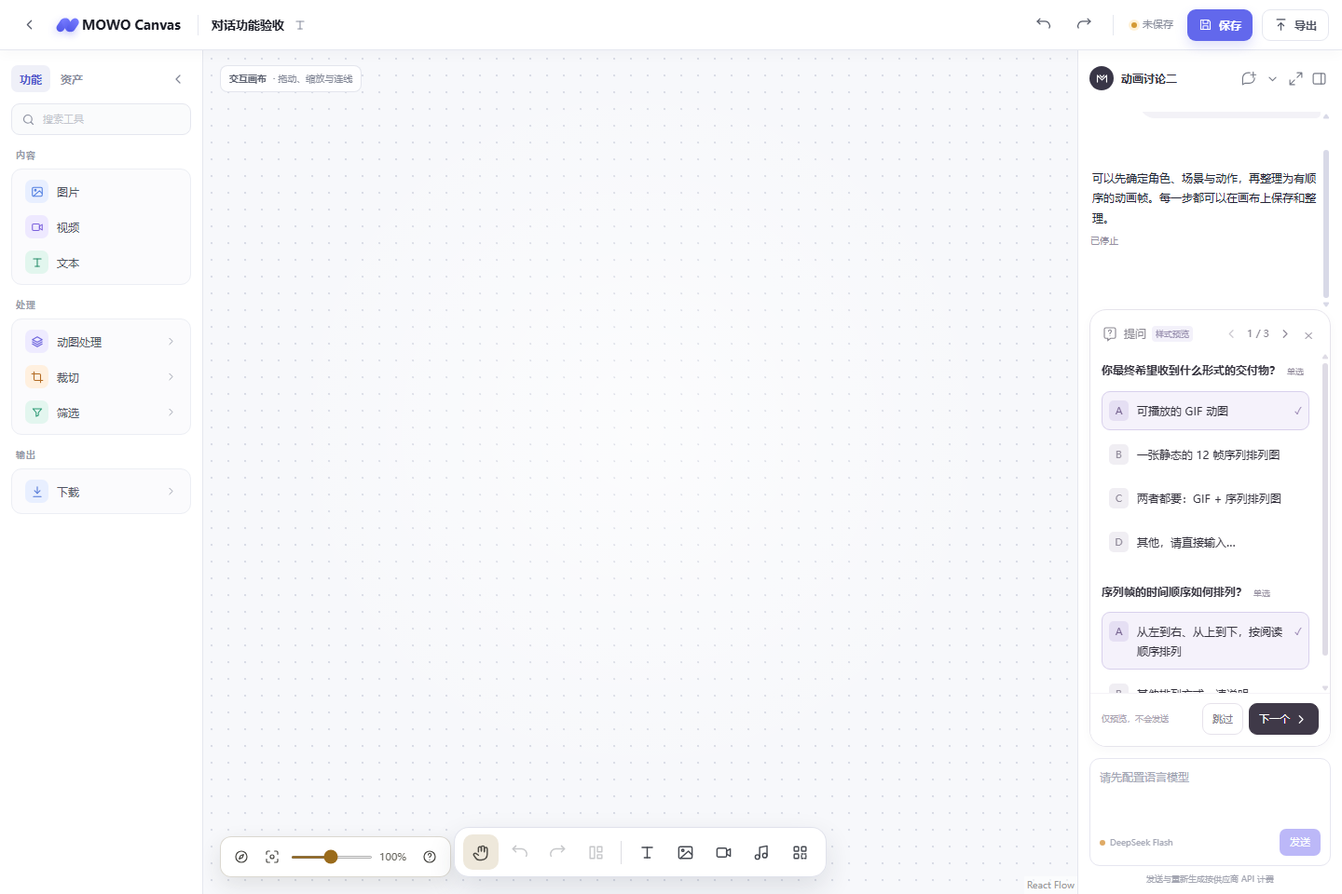
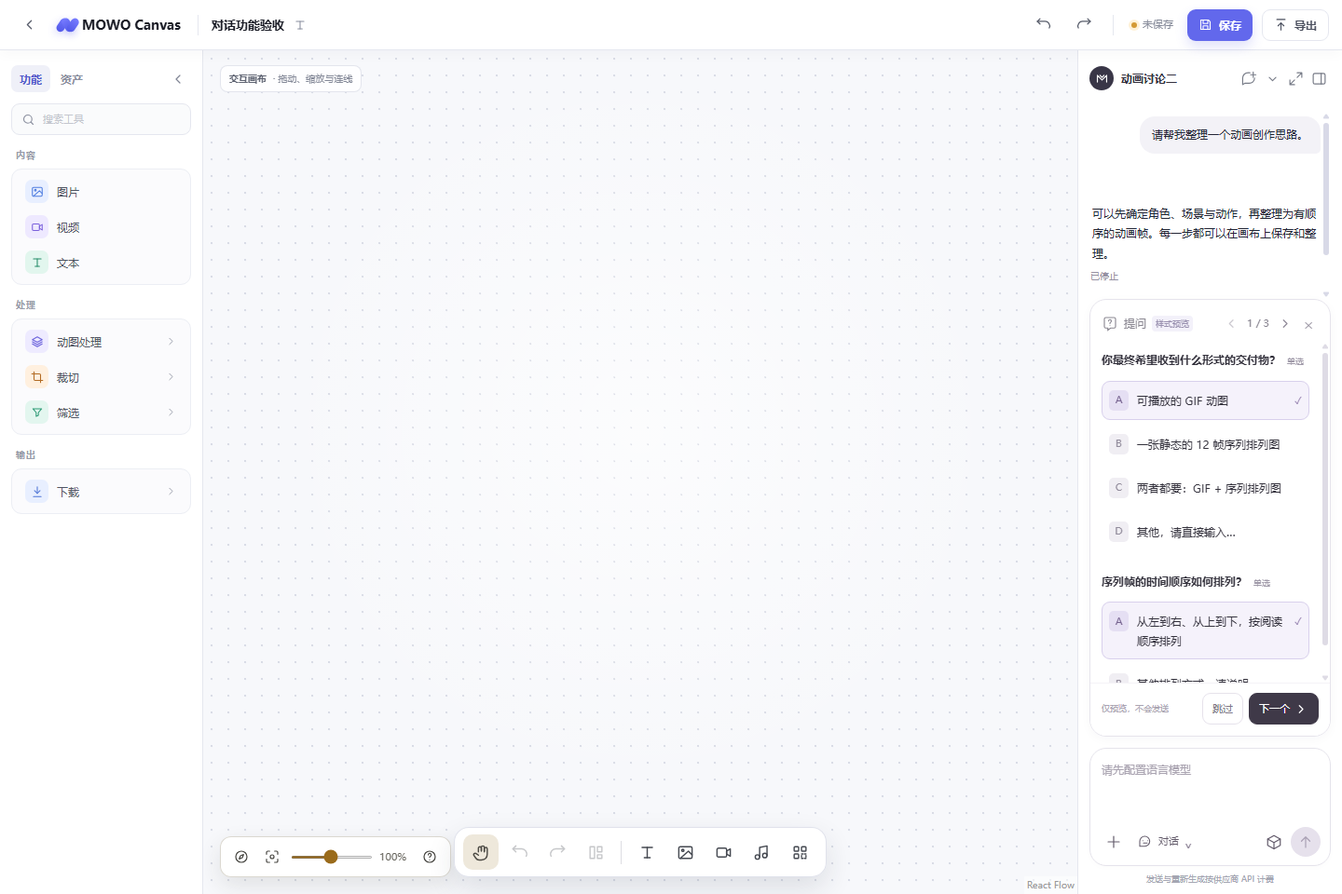
feat: refine chat composer toolbar and local file preview

diff --git a/src/features/ai/chat-composer.tsx b/src/features/ai/chat-composer.tsx
@@ -1,0 +1,84 @@
+"use client";
+
+import { useEffect, useRef, useState } from "react";
+import styles from "./chat-composer.module.css";
+
+function ComposerIcon({ name }: { name: "plus" | "file" | "mode" | "cube" | "send" | "stop" | "image" | "video" }) {
+  const paths = {
+    plus: <path d="M12 4v16M4 12h16" />,
+    file: <><path d="m8 12 6-6a3 3 0 0 1 4 4l-8 8a5 5 0 0 1-7-7l8-8" /></>,
+    mode: <><path d="M5 19H3v-8a8 8 0 1 1 8 8H5Z" /><path d="M8 10h.01M16 10h.01M9 14h6" /></>,
+    cube: <><path d="m12 3 9 5v9l-9 5-9-5V8Z" /><path d="m3 8 9 5 9-5M12 13v9" /></>,
+    send: <path d="M12 20V5m-6 6 6-6 6 6" />,
+    stop: <rect x="6" y="6" width="12" height="12" rx="2" fill="currentColor" stroke="none" />,
+    image: <><rect x="3" y="4" width="18" height="16" rx="3" /><circle cx="8" cy="9" r="1" /><path d="m4 18 6-6 4 4 3-3 4 4" /></>,
+    video: <><rect x="3" y="6" width="13" height="12" rx="3" /><path d="m16 10 5-3v10l-5-3Z" /></>,
+  };
+  return <svg viewBox="0 0 24 24" width="18" height="18" fill="none" stroke="currentColor" strokeWidth="1.6" strokeLinecap="round" strokeLinejoin="round" aria-hidden="true">{paths[name]}</svg>;
+}
+const fileKey = (file: File) => `${file.name}:${file.size}:${file.lastModified}`;
+const fileSize = (size: number) => size < 1024 * 1024 ? `${Math.max(1, Math.round(size / 1024))} KB` : `${(size / (1024 * 1024)).toFixed(1)} MB`;
+
+export function ChatComposer({ value, onChange, onSend, disabled, configured, running, stopping, submitting, onStop, onSettings }: {
+  value: string; onChange: (value: string) => void; onSend: () => void; disabled: boolean; configured: boolean;
+  running: boolean; stopping: boolean; submitting: boolean; onStop: () => void; onSettings: () => void;
+}) {
+  const [menu, setMenu] = useState<"tools" | "mode" | "model" | null>(null);
+  const [files, setFiles] = useState<File[]>([]);
+  const root = useRef<HTMLFormElement>(null);
+  const picker = useRef<HTMLInputElement>(null);
+  const canSend = !running && !submitting && !disabled && !files.length && Boolean(value.trim());
+  useEffect(() => {
+    if (!menu) return;
+    const close = (event: PointerEvent) => { if (!root.current?.contains(event.target as Node)) setMenu(null); };
+    document.addEventListener("pointerdown", close);
+    return () => document.removeEventListener("pointerdown", close);
+  }, [menu]);
+  const toggle = (target: typeof menu) => setMenu((current) => current === target ? null : target);
+  return <form className={styles.composer} ref={root} aria-label="对话输入区" onSubmit={(event) => { event.preventDefault(); if (canSend) onSend(); }}
+    onKeyDown={(event) => { if (event.key === "Escape") setMenu(null); }}>
+    <input ref={picker} type="file" aria-label="选择上传文件" hidden multiple onChange={(event) => {
+      const chosen = Array.from(event.target.files ?? []);
+      setFiles((current) => {
+        const keys = new Set(current.map(fileKey));
+        return [...current, ...chosen.filter((file) => { const key = fileKey(file); if (keys.has(key)) return false; keys.add(key); return true; })];
+      });
+      event.target.value = "";
+    }} />
+    {files.length > 0 && <div className={styles.attachments} aria-label="本地文件预览">{files.map((file) => <div className={styles.attachment} key={fileKey(file)}>
+      <ComposerIcon name="file" /><span title={file.name}>{file.name}<small>{fileSize(file.size)} · 本地预览</small></span>
+      <button aria-label={`移除文件 ${file.name}`} title="移除文件" type="button" onClick={() => setFiles((current) => current.filter((item) => fileKey(item) !== fileKey(file)))}>×</button>
+    </div>)}</div>}
+    {files.length > 0 && <p className={styles.fileNotice} role="status">文件暂不随消息发送，移除后可继续文字对话。</p>}
+    <textarea aria-label="输入消息" placeholder={configured ? "描述你的想法…" : "请先配置语言模型"} rows={3} maxLength={8000} value={value} onChange={(event) => onChange(event.target.value)} onKeyDown={(event) => {
+      if (event.key === "Enter" && !event.shiftKey && !event.nativeEvent.isComposing && event.keyCode !== 229) { event.preventDefault(); if (canSend) onSend(); }
+    }} />
+    <div className={styles.toolbar}>
+      <div className={styles.left}>
+        <button className={`${styles.iconButton} ${menu === "tools" ? styles.active : ""}`} type="button" aria-label="添加功能" title="添加" aria-expanded={menu === "tools"} onClick={() => toggle("tools")}><ComposerIcon name="plus" /></button>
+        <button className={`${styles.modeButton} ${menu === "mode" ? styles.active : ""}`} type="button" aria-label="选择模式" title="选择模式" aria-expanded={menu === "mode"} onClick={() => toggle("mode")}><ComposerIcon name="mode" /><span>对话</span><span className={styles.chevron}>⌄</span></button>
+      </div>
+      <div className={styles.right}>
+        <button className={`${styles.iconButton} ${menu === "model" ? styles.active : ""}`} type="button" aria-label="模型偏好" title="模型偏好" aria-expanded={menu === "model"} onClick={() => toggle("model")}><ComposerIcon name="cube" /></button>
+        {running ? <button className={styles.send} type="button" aria-label="停止生成" title={stopping ? "停止中…" : "停止生成"} disabled={stopping} onClick={onStop}><ComposerIcon name="stop" /></button>
+          : <button className={styles.send} type="submit" aria-label="发送消息" title={submitting ? "发送中…" : files.length ? "文件仅作本地预览，请先移除" : "发送消息（Enter）"} disabled={!canSend}><ComposerIcon name="send" /></button>}
+      </div>
+    </div>
+    {menu === "tools" && <div className={styles.popup} role="menu" aria-label="功能菜单">
+      <button type="button" role="menuitem" onClick={() => { setMenu(null); picker.current?.click(); }}><ComposerIcon name="file" /><span>上传文件<small>本地选择预览，尚未接入发送</small></span></button>
+    </div>}
+    {menu === "mode" && <div className={styles.popup} role="menu" aria-label="模式菜单">
+      <button type="button" role="menuitemradio" aria-checked="true" onClick={() => setMenu(null)}><ComposerIcon name="mode" /><span>对话<small>文字交流与需求讨论</small></span><span className={styles.check}>✓</span></button>
+      <div className={styles.divider} />
+      <button type="button" role="menuitemradio" aria-checked="false" disabled><ComposerIcon name="image" /><span>图像</span><small>未接入</small></button>
+      <button type="button" role="menuitemradio" aria-checked="false" disabled><ComposerIcon name="video" /><span>视频</span><small>未接入</small></button>
+    </div>}
+    {menu === "model" && <section className={`${styles.popup} ${styles.models}`} aria-label="模型偏好面板">
+      <header><strong>模型偏好</strong><label title="接入更多模型后开放"><span>自动</span><input type="checkbox" role="switch" aria-label="自动选择模型" disabled /></label></header>
+      <div className={styles.tabs} role="tablist" aria-label="模型类型"><button type="button" role="tab" aria-selected="true">语言</button><button type="button" role="tab" aria-selected="false" disabled title="图像模型未接入">图像</button><button type="button" role="tab" aria-selected="false" disabled title="视频模型未接入">视频</button></div>
+      <div className={styles.modelRow}><ComposerIcon name="mode" /><div><strong>DeepSeek Flash</strong><small>当前文字对话模型 · {configured ? "已配置" : "未配置"}</small></div><span className={styles.check}>✓</span></div>
+      <p>自动选择与其他模型将在接入后开放。</p>
+      <button className={styles.manage} type="button" onClick={() => { setMenu(null); onSettings(); }}>管理模型配置</button>
+    </section>}
+  </form>;
+}

diff --git a/src/features/ai/chat-composer.module.css b/src/features/ai/chat-composer.module.css
@@ -1,0 +1,49 @@
+.composer { position: relative; flex-shrink: 0; padding: 12px 10px 9px; border: 1px solid #e5e3eb; border-radius: 18px; background: white; box-shadow: 0 2px 6px #30283e04; }
+.composer:focus-within { border-color: #c5bed8; }
+.composer > textarea { display: block; width: 100%; min-width: 0; min-height: 58px; resize: none; padding: 0 2px; border: 0; outline: none; background: transparent; color: #37323f; font: inherit; font-size: 12px; line-height: 1.7; }
+.composer textarea::placeholder { color: #aaa4b1; }
+.toolbar, .left, .right { display: flex; align-items: center; }
+.toolbar { justify-content: space-between; gap: 6px; margin-top: 10px; }
+.left, .right { gap: 3px; }
+.composer button { font: inherit; cursor: pointer; }
+.iconButton, .modeButton { display: inline-flex; justify-content: center; align-items: center; flex-shrink: 0; height: 30px; padding: 5px; border: 0; border-radius: 15px; color: #635b6b; background: transparent; }
+.iconButton { width: 30px; }
+.modeButton { gap: 6px; padding: 5px 8px; font-size: 11px !important; }
+.modeButton svg { width: 16px; height: 16px; }
+.chevron { margin-top: -3px; color: #8c8295; font-size: 15px; }
+.iconButton:hover, .modeButton:hover, .active { background: #f1eef5; }
+.send { display: grid; place-items: center; flex-shrink: 0; width: 32px; height: 32px; padding: 0; border: 0; border-radius: 50%; color: white; background: #3c3545; }
+.send:hover:not(:disabled) { background: #5a496a; }
+.send:disabled { background: #e6e1ec; color: #aaa1b4; opacity: 1 !important; cursor: not-allowed; }
+.popup { position: absolute; z-index: 45; bottom: calc(100% + 8px); left: 0; right: 0; overflow: auto; max-height: min(370px, 50vh); padding: 8px; border: 1px solid #e8e4ed; border-radius: 14px; background: #fff; box-shadow: 0 10px 28px #33283e1c; scrollbar-width: thin; }
+.popup > button { display: flex; align-items: center; gap: 10px; width: 100%; padding: 10px 8px; border: 0; border-radius: 8px; color: #4b4255; background: transparent; text-align: left; font-size: 12px; }
+.popup > button:hover:not(:disabled) { background: #f7f4fa; }
+.popup > button > svg { flex-shrink: 0; }
+.popup > button > span { flex: 1; min-width: 0; }
+.popup small { display: block; margin-top: 3px; color: #aaa2b2; font-size: 10px; line-height: 1.6; font-weight: 400; }
+.popup > button:disabled { color: #a8a0b0; opacity: .65; cursor: not-allowed; }
+.popup .check { flex: 0; margin-left: auto; color: #8f7aa4; font-size: 12px; }
+.divider { height: 1px; margin: 6px 7px; background: #eeeaf2; }
+.models { padding: 14px 12px; }
+.models header { display: flex; align-items: center; justify-content: space-between; gap: 10px; margin-bottom: 13px; }
+.models header strong { font-size: 12px; font-weight: 650; color: #51465e; }
+.models header label { display: flex; align-items: center; gap: 6px; color: #aaa0b5; font-size: 10px; }
+.models header input { appearance: none; width: 26px; height: 15px; margin: 0; border-radius: 10px; background: #e9e4ef; }
+.models header input::before { content: ""; display: block; width: 11px; height: 11px; margin: 2px; border-radius: 50%; background: #fff; }
+.tabs { display: flex; gap: 3px; padding: 3px; border-radius: 8px; background: #f5f2f7; }
+.tabs button { flex: 1; min-width: 0; padding: 5px 2px; border: 0; border-radius: 5px; background: transparent; color: #aaa0b4; font-size: 11px; }
+.tabs button[aria-selected="true"] { color: #756084; background: white; box-shadow: 0 1px 4px #3021390a; }
+.modelRow { display: flex; align-items: flex-start; gap: 8px; padding: 18px 3px 9px; }
+.modelRow > svg { flex-shrink: 0; margin-top: 1px; color: #756080; }
+.modelRow > div { flex: 1; min-width: 0; }
+.modelRow strong { color: #5c4b6a; font-size: 12px; font-weight: 550; }
+.models > p { margin: 3px 2px 8px; font-size: 10px; color: #aaa0b5; line-height: 1.7; }
+.models > .manage { justify-content: center; padding: 7px; border-top: 1px solid #f1edf4; border-radius: 0; color: #8e7c9e; font-size: 11px; }
+.attachments { display: grid; gap: 5px; max-height: 100px; margin-bottom: 6px; overflow-y: auto; scrollbar-width: thin; }
+.attachment { display: flex; align-items: center; gap: 6px; min-width: 0; padding: 7px; border-radius: 8px; color: #80708b; background: #f7f4fa; }
+.attachment > svg { flex-shrink: 0; width: 15px; height: 15px; }
+.attachment > span { min-width: 0; flex: 1; overflow: hidden; white-space: nowrap; text-overflow: ellipsis; font-size: 11px; }
+.attachment small { display: block; margin-top: 3px; color: #b0a4bb; font-size: 9px; }
+.attachment button { flex-shrink: 0; padding: 0 2px; border: 0; color: #a393af; background: none; font-size: 16px; }
+.fileNotice { margin: 5px 2px 8px; color: #a08baf; font-size: 10px; line-height: 1.6; }
+.composer button:focus-visible { outline: 2px solid #ad9bc1; outline-offset: 2px; }

diff --git a/src/features/ai/chat-panel.tsx b/src/features/ai/chat-panel.tsx
@@ -1,12 +1,13 @@
 "use client";
 
-import { createContext, useCallback, useContext, useEffect, useRef, useState, useSyncExternalStore, type FormEvent } from "react";
+import { createContext, useCallback, useContext, useEffect, useRef, useState, useSyncExternalStore } from "react";
 import { AssistantRuntimeProvider, MessagePrimitive, ThreadPrimitive, useAuiState, useExternalStoreRuntime, type ThreadMessageLike } from "@assistant-ui/react";
 import { Icon } from "@/app/components/app-icon";
 import { createBrowserSession, runErrorText, type ChatSession, type ChatState } from "./client/chat-session";
 import { isTerminal, type ConversationSummary, type StoredChatMessage } from "./types";
 import { ChatIcon } from "./chat-icons";
 import { ClarificationPreview } from "./clarification-preview";
+import { ChatComposer } from "./chat-composer";
 import styles from "./chat.module.css";
 
 const SessionContext = createContext<{ state: ChatState; session: ChatSession } | null>(null);
@@ -178,8 +179,7 @@ function ConversationPanel({ projectId, onCollapse, expanded, onExpand, conversa
     onNew: async (message) => { await session.send(message.content.filter((part) => part.type === "text").map((part) => part.text).join("\n")); },
     onCancel: () => session.stop(),
   });
-  async function submit(event?: FormEvent) {
-    event?.preventDefault();
+  async function submit() {
     if (disabled || !draft.trim()) return;
     const text = draft;
     if (await session.send(text)) setDraft((current) => current === text ? "" : current);
@@ -221,14 +221,8 @@ function ConversationPanel({ projectId, onCollapse, expanded, onExpand, conversa
       {state.error && <div className={styles.notice} role="alert">{state.error}<button type="button" disabled={state.loading || state.submitting} onClick={() => { void session.refresh(); }}>恢复记录</button></div>}
       {running && <div className={styles.runStatus} role="status">{state.connection === "reconnecting" ? "连接中断，正在核对后台状态…" : state.stopping ? "正在确认停止…" : "正在生成回复…"}</div>}
       {questionPreviewOpen && <ClarificationPreview onClose={() => setQuestionPreviewOpen(false)} />}
-      <form className={styles.composer} onSubmit={(event) => { void submit(event); }}>
-        <textarea aria-label="输入消息" placeholder={state.configuration?.configured ? "输入消息，Enter 发送" : "请先配置语言模型"} rows={3} maxLength={8000} value={draft} onChange={(event) => setDraft(event.target.value)} onKeyDown={(event) => {
-          if (event.key === "Enter" && !event.shiftKey && !event.nativeEvent.isComposing && event.keyCode !== 229) { event.preventDefault(); void submit(); }
-        }} />
-        <div className={styles.composerFooter}><span title={state.configuration?.configured ? "已配置本机密钥" : "未配置本机密钥"}><span className={state.configuration?.configured ? styles.ready : styles.unconfigured} />DeepSeek Flash</span>{running
-          ? <button type="button" className={styles.stop} disabled={state.stopping} onClick={() => { void session.stop(); }}>{state.stopping ? "停止中…" : "停止"}</button>
-          : <button type="submit" disabled={disabled || !draft.trim()}>{state.submitting ? "发送中…" : "发送"}</button>}</div>
-      </form>
+      <ChatComposer value={draft} onChange={setDraft} onSend={() => { void submit(); }} disabled={disabled} configured={Boolean(state.configuration?.configured)}
+        running={running} stopping={state.stopping} submitting={state.submitting} onStop={() => { void session.stop(); }} onSettings={() => setSettingsOpen(true)} />
       <small className={styles.cost}>发送与重新生成按供应商 API 计费</small>
       <dialog ref={dialog} className={styles.settings} aria-labelledby="language-model-title" onCancel={() => setSettingsOpen(false)} onClose={() => setSettingsOpen(false)}>
         <h3 id="language-model-title">语言模型</h3><p>供应商：DeepSeek</p><p>当前模型：deepseek-flash</p><p>本机配置：{state.configuration?.configured ? "已检测到密钥" : "尚未检测到密钥"}</p>

diff --git a/src/features/ai/chat.module.css b/src/features/ai/chat.module.css
@@ -54,15 +54,7 @@
 .notice button { margin-left: 6px; padding: 2px 4px; border: 0; background: transparent; color: #6c61cc; cursor: pointer; font-size: 11px; }
 .pendingText { overflow: hidden; white-space: pre-wrap; max-height: 38px; margin: 3px 0; color: #969080; }
 .runStatus { margin: 0 0 7px; color: #8a849f; font-size: 10px; }
-.composer { flex-shrink: 0; padding: 10px; border: 1px solid #e6e6f0; border-radius: 11px; background: white; }
-.composer:focus-within { border-color: #aba3f8; box-shadow: 0 0 0 2px #f4f2ff; }
-.composer textarea { display: block; width: 100%; min-width: 0; resize: none; border: 0; outline: 0; color: inherit; background: transparent; font: inherit; font-size: 12px; line-height: 1.6; }
-.composer textarea::placeholder { color: #a3a6b4; }
-.composerFooter { display: flex; justify-content: space-between; align-items: center; gap: 4px; margin-top: 7px; }
-.composerFooter > span { font-size: 9px; color: #a4a7b5; }
-.composerFooter > span > span { display: inline-block; margin-right: 5px; }
-.composer button, .settings button { border: 0; border-radius: 7px; padding: 6px 11px; background: #6c63ef; color: white; font-size: 11px; cursor: pointer; }
-.composer .stop { color: #6c63cf; background: #f0eefb; }
+.settings button { border: 0; border-radius: 7px; padding: 6px 11px; background: #6c63ef; color: white; font-size: 11px; cursor: pointer; }
 .panel button:disabled { cursor: not-allowed; opacity: .45; }
 .panel button:focus-visible, .contextNote summary:focus-visible { outline: 2px solid #9b90ed; outline-offset: 2px; }
 .cost { flex-shrink: 0; margin-top: 7px; color: #a4a6b2; font-size: 9px; text-align: center; }

diff --git a/docs/design/prototypes/chat-composer-v01-preview.md b/docs/design/prototypes/chat-composer-v01-preview.md
@@ -1,0 +1,31 @@
+# 对话输入操作栏 V01
+
+状态：**当前最新候选，先完成 UI，待用户体验验收**。
+
+## 当前布局
+
+输入框下方从左到右为：加号功能菜单、模式选择、模型偏好、圆形发送/停止按钮。弹层向上打开，保持在当前对话栏内；窄侧栏和放大状态使用同一个组件。
+
+![功能菜单](chat-composer-v01-preview.png)
+
+![模型偏好](chat-composer-v01-models.png)
+
+## 已确认范围
+
+首版加号菜单只有“上传文件”。@ 画布引用、技能、连接器及其他功能等有明确用途后再加入。
+
+本轮仍按先 UI 后能力实施。文件选择目前只显示本机文件名和大小，可移除；不读取正文、不传到服务端、不进入资产库或聊天、不发往模型。重复选择同名、同大小和同修改时间的文件不重复显示；关闭页面或切换会话后清除预览。
+
+带有预览文件时显示说明并阻止发送；移除后恢复正常文字对话，避免静默丢掉文件却继续发送文字。
+
+## 当前候选交互
+
+- 模式菜单当前为“对话”；图像、视频显示未接入并禁用。没有 Agent Plus 或订阅入口。
+- 模型偏好单独展示模型类型、自动选择开关位置和当前 DeepSeek Flash。当前只有一个语言模型，自动选择及图像/视频页签禁用，不改变真实供应商配置。
+- “管理模型配置”打开已有配置说明窗口；设置仍不在浏览器展示密钥。
+- 发送按钮为空输入或不可发送时禁用；生成期间变成停止按钮。Enter 发送、Shift+Enter 换行、中文输入法处理保留。
+- 菜单可通过再次点击、点击外部或 Escape 关闭。
+
+## 验证
+
+2026-11-06：类型检查、Lint、Webpack 生产构建通过。隔离浏览器验证仅有一个功能菜单项、模式占位禁用、模型偏好、文件选择/显示/移除与发送阻挡；同时通过原聊天停止、历史恢复及提问卡片预览回归。运行和消息数量没有增加；本轮未发起模型调用。

diff --git a/docs/logs/current.md b/docs/logs/current.md
@@ -6,6 +6,8 @@
 
 ## 已完成
 
+- 2026-11-06：完成输入区底部操作栏 UI。加号菜单仅上传文件；提供本地文件元信息预览与移除，阻止带未接入文件的发送；模式、模型偏好及圆形发送/停止入口已分离。未添加 @、技能或连接器，没有新增 API/数据库/模型行为。类型检查、Lint、Webpack 构建与隔离浏览器回归通过，本轮无模型调用；当前候选见[操作栏 V01](../design/prototypes/chat-composer-v01-preview.md)。
+
 - 2026-11-06：新增提问卡片 UI 样式预览，仅通过对话栏 Logo 菜单手动打开。实现选项、自定义输入、分页/保留选择、跳过、结果摘要和重开；固定示例与真实会话隔离，未改模型提示词、运行接口或数据库。TypeScript、Lint、Webpack 构建及隔离浏览器验证通过，运行/消息数量未增加。当前候选为[提问卡片 V01](../design/prototypes/clarification-card-v01-preview.md)，尚未接入真实追问。
 
 - 2026-11-06：完成当前画布多会话交互。消息改为提问靠右、回复靠左，复制/时间悬停显示；Logo 设置菜单、标题原位改名、新建/历史搜索/历史行改名、放大/还原与折叠已接入。迁移旧记录并保留原运行/事件/幂等标识，重复新建未使用的空会话会复用；18 项 AI 测试、隔离 HTTP 与浏览器检查通过，本次未新增付费模型请求。详见 [V1 进度](../ai/v1-progress.md)。

diff --git a/docs/requirements/features/settings-and-models.md b/docs/requirements/features/settings-and-models.md
@@ -39,6 +39,12 @@ API 密钥不得写入前端代码、公开环境变量或 Git。界面展示时
 
 验收：用户能在对话栏打开预览，检查选项、分页与按钮样式；预览操作不产生聊天消息、运行或费用。
 
+### REQ-SETTINGS-006 输入区操作入口
+
+输入区底部区分功能菜单、模式选择、模型偏好和发送/停止；模式表示任务类型，模型偏好表示使用的具体模型。首版功能菜单只提供上传文件，@ 引用与其他功能等有明确用途后加入。当前先实现 UI，未接入能力要有清楚标识。样式与实现边界见[操作栏 V01](../../design/prototypes/chat-composer-v01-preview.md)。
+
+验收：加号菜单没有未经确认的附加功能；文字对话与停止仍可用；预览文件不会被误标为已发送给模型。
+
 ## 已确认的后续方向
 
 基础文字对话按已确认的 [Agent 实施计划](../../ai/agent-implementation-plan.md) 实施：按画布保存历史、流式回复、停止并保留部分内容、复制与失败后重新生成；断线先恢复原请求，不能自动重复付费提交。当前实现及验收边界见 [V1 进度](../../ai/v1-progress.md)。

diff --git a/docs/07-file-map.md b/docs/07-file-map.md
@@ -26,6 +26,8 @@ MOWO Canvas/
 
 ## 当前代码结构
 
+输入操作栏：`src/features/ai/chat-composer.tsx` 与同名 CSS Module 管理输入、底部菜单和本地文件选择预览；正式聊天发送仍由 `ChatSession` 承担，不在组件里直连模型。
+
 提问卡片：`src/features/ai/clarification-card.tsx` 与同名 CSS Module 为可复用 UI；`clarification-preview.tsx` 仅承载固定示例和本地摘要。最新样式与验证见 `docs/design/prototypes/clarification-card-v01-preview.md`。
 
 AI 对话：`src/features/ai/` 保存类型、聊天组件/图标/样式、客户端恢复状态、会话/运行/消息/事件表、事务存储及调度；`src/app/api/ai/` 与 `src/app/api/projects/[id]/ai/` 提供运行与当前画布会话接口。`scripts/ai-run-worker.ts` 为正式独立工作进程；`ai-run-test-worker.ts` 仅用于离线测试；`verify-ai-runs-http.mjs` 和 `verify-ai-chat-browser.mjs` 分别验证 HTTP 与真实浏览器链路。接口契约见 `docs/api/ai-runs.md`，交付证据见 `docs/ai/v1-progress.md`。

diff --git a/docs/ai/v1-progress.md b/docs/ai/v1-progress.md
@@ -4,6 +4,8 @@
 
 ## 本轮已完成
 
+- 输入区底部已拆为功能、模式、模型偏好与发送/停止。功能菜单只有上传文件，当前只在本机预览文件元信息，不发送/解析/入库；有预览文件时阻止发送并说明。图像/视频和自动模型选择标为未接入，@ 与其他功能未加入。样式见[操作栏 V01](../design/prototypes/chat-composer-v01-preview.md)。
+
 - 新增可复用提问卡片 UI 与 Logo 菜单中的样式预览入口。只有本地选择、分页、自定义输入、跳过和摘要；不接模型追问、不保存为会话，不修改系统提示词。当前候选见[提问卡片 V01](../design/prototypes/clarification-card-v01-preview.md)。
 
 - 正式 SQLite 迁移新增运行、消息和有序事件表。对话按当前项目隔离；删除项目时级联清除对话，不修改画布保存流程。

diff --git a/docs/design/README.md b/docs/design/README.md
@@ -10,6 +10,8 @@
 
 ## 当前最新原型
 
+- [对话输入操作栏 V01](prototypes/chat-composer-v01-preview.md)：**当前最新候选**，功能菜单仅上传文件；文件当前为本地预览，其他模式/模型能力尚未接入。
+
 - [提问卡片 V01](prototypes/clarification-card-v01-preview.md)：**当前最新候选**，只实现样式和本地交互预览，尚未接入助手追问。
 
 - [动图拆帧 V03 原型](prototypes/animated-frame-extraction-v03.md)：**当前最新且已确认的实现基线**。V01、V02 已被替代，只通过 Git 历史追溯。
